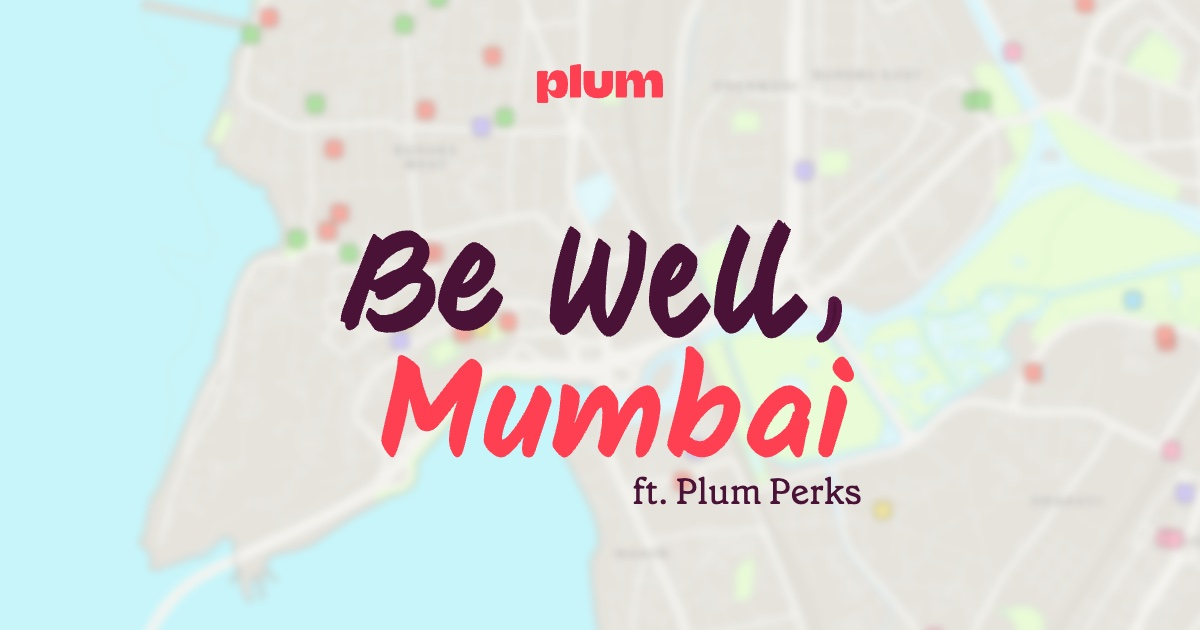
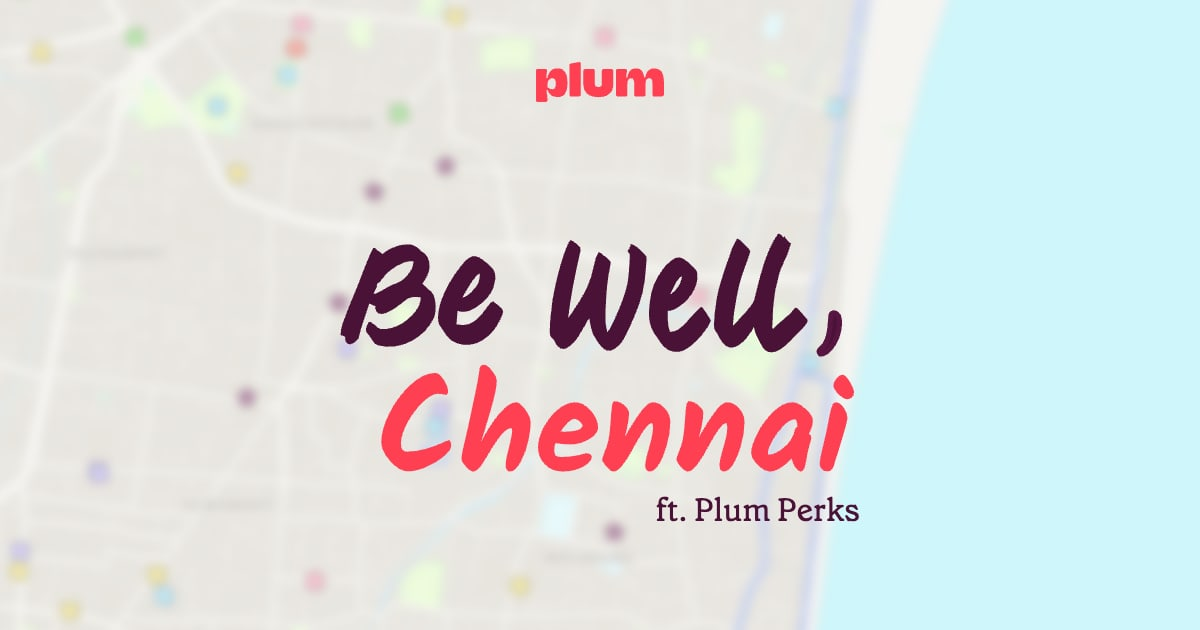
Share image says Be Well, Chennai
scripts/og-image.mjs makes the 1200x630 card from this map: the Chennai
coast at Marina and Mylapore, blurred, with the Plum logo, the long logo's
lettering and "ft. Plum Perks" in Grenette Pro. Replaces the Mumbai
picture that sat under the Chennai filename.

diff --git a/README.md b/README.md
@@ -84,10 +84,13 @@ describes the code accurately; where it names Bengaluru's data, read Chennai's.
 
 - Plum Perks partner brands and the online Plum events, which are not
   tied to a city.
-- **All the other artwork is a placeholder**: the hero, the stamp and
-  vignettes are still Bengaluru's, and the share image
-  `public/og-be-well-chennai.jpg` is still **Mumbai's picture** (it says
-  "Be Well, Mumbai") under a Chennai filename. Replace it before launch.
+- **The share image** `public/og-be-well-chennai.jpg` is made from this map
+  by `node scripts/og-image.mjs http://localhost:4321/` (dev server running):
+  the Chennai coast at Marina and Mylapore, blurred, under the Plum logo,
+  "Be Well, Chennai" and "ft. Plum Perks". Re-run it when the map's look
+  changes; a view can be passed as `lon,lat,zoom`.
+- **The other artwork is a placeholder**: the hero, the stamp and the
+  vignettes are still Bengaluru's.
 - The Plum HQ pin is hidden, since it is in Bengaluru (`PLUM_HQ` in
   `src/scripts/wellness-map.js`).
 - The disclaimers still name the courts at Bengaluru, since that is
